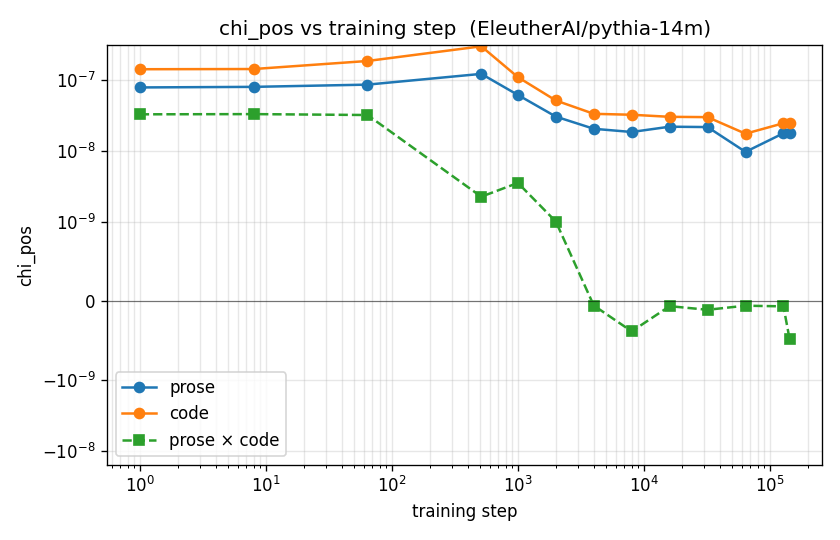
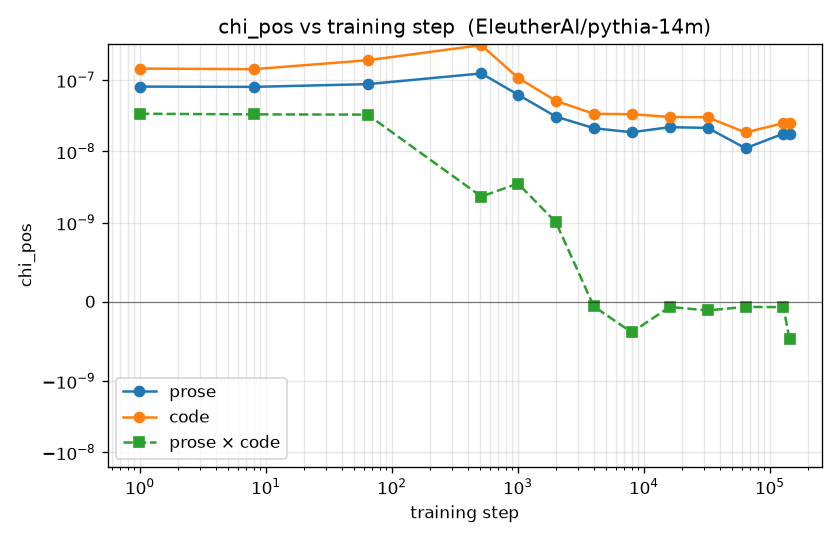
examples: regenerate the pythia-14m deployment example outputs
results.parquet now has all current columns. chi_loss and delta_loss
match the April file to float32 rounding; chi_net and chi_pos are a new
probe draw for the same seed, within the probe noise. The quoted findings
are unchanged. The re-measured wallclock is slower than the April figures
and per-measurement compute now dominates; docs updated to say so.

Claude-Session: https://claude.ai/code/session_01XpVuDLPyimSinTVVr5zyzt

diff --git a/examples/BENCHMARK.md b/examples/BENCHMARK.md
@@ -53,16 +53,22 @@ The example is deliberately sized to run end-to-end in **well under 15 minutes**
 on modest hardware, so a maintainer on a slow GPU or a cold HF cache still gets a
 quick turnaround. As committed (`per_sequence_cv`, `n_h=32`, `B=8`, `S=128`, 13
 revisions × 2 self pairs + 1 cross pair = 39 measurements) the measured wallclock
-is:
+on an RTX 3090 Ti, with the code of 17 November 2026 (the run that wrote the
+committed outputs), is:
 
-- **~50 s on the first run** (cold HF cache — the 4 log-spaced early-phase
-  checkpoints are fresh ~3–4 s downloads),
-- **~20 s on subsequent runs** (warm cache).
+- **~76 s on the first run** (cold HF cache, all 13 checkpoints downloaded),
+- **~52–55 s on subsequent runs** (warm cache; also with the hub offline).
 
-The bottleneck is checkpoint loading, not analysis — the per-call compute is a
-fraction of a second at these parameters (see `examples/benchmark/single_gpu/`
-for the wallclock/memory sweep). Bumping `n_hutchinson`, adding eval batches, or
-running both methods would all stay comfortably within budget.
+**This is slower than the April 2026 state, and the bottleneck has moved.** The
+April files recorded ~0.54 s of compute per (checkpoint, pair) measurement and
+~20 s / ~50 s warm / cold, so loading dominated. The November run records a
+median ~1.5 s per measurement (38.5 s of the warm total), so the analysis is now
+the larger share. The cause was not measured here; one candidate is the change to
+drawing the Hutchinson probes on the CPU (`CHANGELOG.md`), since a pythia probe
+has 8 × 128 × 50,304 entries, about three times the Llama example's. The run is
+still far inside the 15-minute budget, and bumping `n_hutchinson`, adding eval
+batches, or running both methods would stay within it (see
+`examples/benchmark/single_gpu/` for the A100 wallclock/memory sweep).
 
 ## Revisions and early-phase findings
 
@@ -125,7 +131,7 @@ decorrelation is over by step512**, well before the absolute cross delta_loss
 even starts looking interesting.
 
 The analysis script is intentionally separate from `pythia_sweep.py`: compute is
-expensive (~50 s cold), analysis is cheap (sub-second), and the analysis script
+expensive (~1 min on an RTX 3090 Ti), analysis is cheap (sub-second), and the analysis script
 imports only `pyarrow` (not vatis) — making the parquet schema the contract, the
 right pattern for any downstream consumer.
 
@@ -139,6 +145,18 @@ Outputs (under `examples/pythia_sweep/`):
   (symlog, since the cross values cross zero).
 - `cos_similarity.png` (from `analyze_results.py`) — the normalized cross-batch
   correlation, with gradient magnitudes divided out.
+
+These files were regenerated on 17 November 2026 with the code that adds the
+eight run-setting columns (commit `9aa0751`), on an RTX 3090 Ti, replacing
+files from April 2026; the parquet now has all 20 columns of the current schema.
+Compared row by row with the April file: `chi_loss` agrees to 1.2e-7 relative
+and `delta_loss` to 1.1e-5 on the self pairs (6.7e-4 on the smallest cross-pair
+value, an absolute difference of 1.5e-3 next to self values of ~580), which is
+float32 rounding; `chi_net` and `chi_pos` differ by up to 13% (median 1%),
+because the Hutchinson probes are now a different random draw for the same seed.
+Those differences are what the probe noise predicts: divided by √2 times the
+new `value_probe_stderr`, they have a root-mean-square of 1.1. Every number
+quoted in the sections above is unchanged at the precision quoted.
 
 ## WP0 GPU example — two rulers on a project Llama bundle
 

diff --git a/CLAUDE.md b/CLAUDE.md
@@ -180,7 +180,7 @@ Reference point from the v1.1 deployment example. All numbers use fp32 forward, 
 | hutchinson        |  32 | 16 |  0.38 |    1529 |                                       |
 | per_sequence_cv   |  32 | 16 |  0.64 |    3280 | per-sample grad cache visible here    |
 
-For the deployment example as committed (`per_sequence_cv`, n=32, B=8, S=128, 13 revisions × 2 self pairs + 1 cross pair = 39 measurements), end-to-end wallclock including model loading is **~20 s with a warm HF cache** and **~50 s on first run** (the 4 log-spaced early checkpoints add ~30 s of cold downloads). The dominant cost is checkpoint loading, not analysis.
+For the deployment example as committed (`per_sequence_cv`, n=32, B=8, S=128, 13 revisions × 2 self pairs + 1 cross pair = 39 measurements), end-to-end wallclock including model loading was **~20 s with a warm HF cache** and **~50 s on first run** in April 2026, when checkpoint loading dominated. Re-measured on 17 November 2026 (same card model, shared): **~52–55 s warm** and **~76 s cold**, with a median ~1.5 s of compute per (checkpoint, pair) against ~0.54 s in April, so the analysis now dominates; the cause is not yet measured (see `examples/BENCHMARK.md` → Sizing).
 
 **Reading guidance:** use the 3090 Ti table only as a smoke check. If your toy or 1B-class model runs at ~10× the wallclock of the rows above, your micro-batch is probably wrong. Use the 8B/A100 estimates above as the production target.
 
@@ -445,7 +445,7 @@ The deployment example (`examples/pythia_sweep.py` + `examples/analyze_results.p
 
 **Phase 2: analysis** (`analyze_results.py`). Reads `results.parquet`, computes derived observables (e.g. normalized cross-batch gradient correlation `cos(g_A, g_B) = δL(A, B) / sqrt(δL(A, A) · δL(B, B))`), produces additional plots and printed tables. This script has **zero vatis imports** — only `pyarrow` and `matplotlib`. The parquet schema is the contract between vatis and any downstream consumer; making the analysis script consume only the parquet enforces that contract by example.
 
-The split matters because compute is expensive (~20 s warm / ~50 s cold for the example sweep) and analysis is cheap (sub-second). Iterating on derived quantities, plot styles, or normalizations should not require re-running the analyzer. Any user code that touches a vatis output should look like `analyze_results.py`: `pyarrow` in, plot/table out.
+The split matters because compute is expensive (~1 min for the example sweep) and analysis is cheap (sub-second). Iterating on derived quantities, plot styles, or normalizations should not require re-running the analyzer. Any user code that touches a vatis output should look like `analyze_results.py`: `pyarrow` in, plot/table out.
 
 A few patterns the example also demonstrates:
 

diff --git a/README.md b/README.md
@@ -109,7 +109,7 @@ models whose two full gradients won't co-reside on the GPU: it offloads the
 cached gradients to host RAM and runs the dot on the CPU, while small models
 stay fully on-device.
 
-Runnable end-to-end (downloads pythia-14m, ~20 s warm):
+Runnable end-to-end (downloads pythia-14m; ~1 min on an RTX 3090 Ti):
 
 ```bash
 python examples/pythia_sweep.py        # compute  → results.parquet + plots
